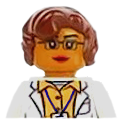
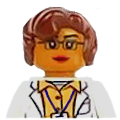
improve avatr and text

diff --git a/sources/main.py b/sources/main.py
@@ -427,9 +427,9 @@ class UITextPrinter():
 		limit_bottom = tiles1( pop_up_window.rect.bottom )
 
 		all_texts = [
-		UIText( "Bonjour !", LINE_HEIGHT.TITLE, True, (limit_left+1, limit_top+1) ),
-		UIText( "Je suis votre ergonome virtuel.", LINE_HEIGHT.TITLE, True, (limit_left+1, limit_top+3) ),
-		UIText( "Pouvez-vous m'aider à améliorer ce logiciel ?", LINE_HEIGHT.TITLE, True, (limit_left+1, limit_top+5) )
+		UIText( "Bonjour !", LINE_HEIGHT.TITLE, True, (limit_left+1, limit_top+2) ),
+		UIText( "Je suis votre ergonome virtuel.", LINE_HEIGHT.TITLE, True, (limit_left+1, limit_top+4) ),
+		UIText( "Pouvez-vous m'aider à améliorer ce logiciel ?", LINE_HEIGHT.TITLE, True, (limit_left+1, limit_top+6) )
 		]
 
 		for text_it in all_texts :
@@ -447,10 +447,10 @@ class UITextPrinter():
 		limit_bottom = tiles1( pop_up_window.rect.bottom )
 
 		all_texts = [
-		UIText( "Votre objectif :", LINE_HEIGHT.TITLE, True, (limit_left+1, limit_top+1) ),
-		UIText( "Jouer un mot et marquer le plus de points possible.", LINE_HEIGHT.NORMAL, True, (limit_top+1, limit_top+2) ),
-		UIText( "Astuce :", LINE_HEIGHT.TITLE, True, (limit_left+1, limit_top+4) ),
-		UIText( "Les cases bonus rapportent plus de points.", LINE_HEIGHT.NORMAL, True, (limit_left+1, limit_top+5) ) ]
+		UIText( "Votre objectif :", LINE_HEIGHT.TITLE, True, (limit_left+1, limit_top+2) ),
+		UIText( "Jouer un mot et marquer le plus de points possible.", LINE_HEIGHT.NORMAL, True, (limit_top+1, limit_top+3) ),
+		UIText( "Astuce :", LINE_HEIGHT.TITLE, True, (limit_left+1, limit_top+5) ),
+		UIText( "Les cases bonus rapportent plus de points.", LINE_HEIGHT.NORMAL, True, (limit_left+1, limit_top+6) ) ]
 
 		for text_it in all_texts :
 			window.blit( text_it.font.render(text_it.text, 1, COLOR.WHITE), (text_it.pos_x, text_it.pos_y) )
@@ -1546,7 +1546,11 @@ if game_is_running :
 
 
 	#create avatar
+	"""
 	ui_avatar = UI_Image('ergonome', path_background, 22, 2.84, 6, 6) #Screen 32*18
+	layers.pop_up_window.add(ui_avatar)
+	"""
+	ui_avatar = UI_Image('ergonome', path_background, 24, 3.84, 5, 5) #Screen 32*18
 	layers.pop_up_window.add(ui_avatar)
 
 	#create progress bar
@@ -2708,6 +2712,7 @@ while game_is_running:
 									var.background_no_letter = window.copy()
 									layers.letters_on_board.draw(window)
 									layers.letters_just_played.draw(window)
+									layers.selected_letter.draw(window) #TODO to debug
 									var.current_player.hand.draw(window)
 									layers.progress_bar.draw(window)
 									var.current_background_no_text = window.copy()
